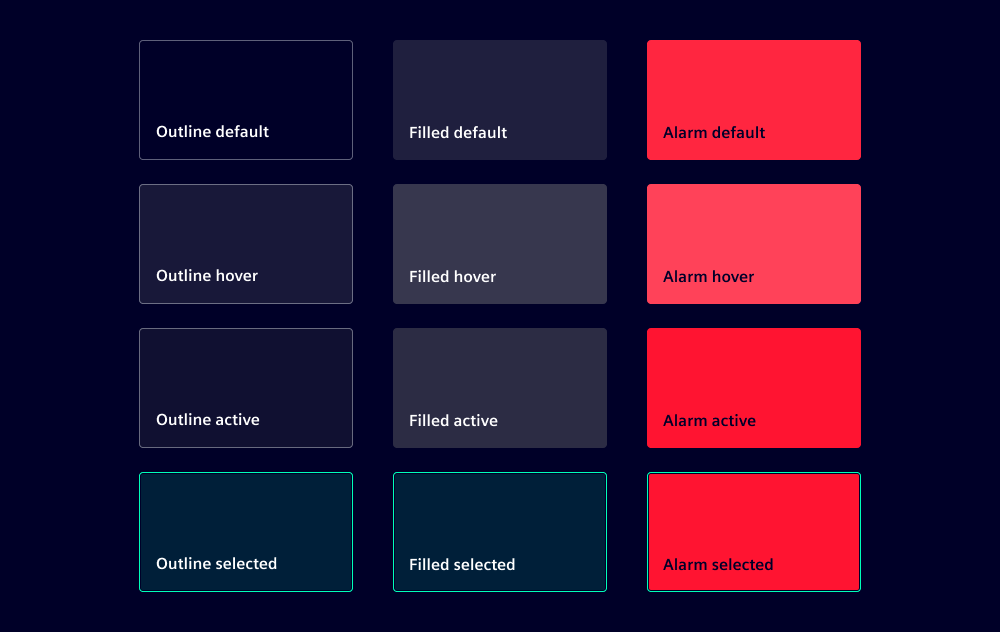
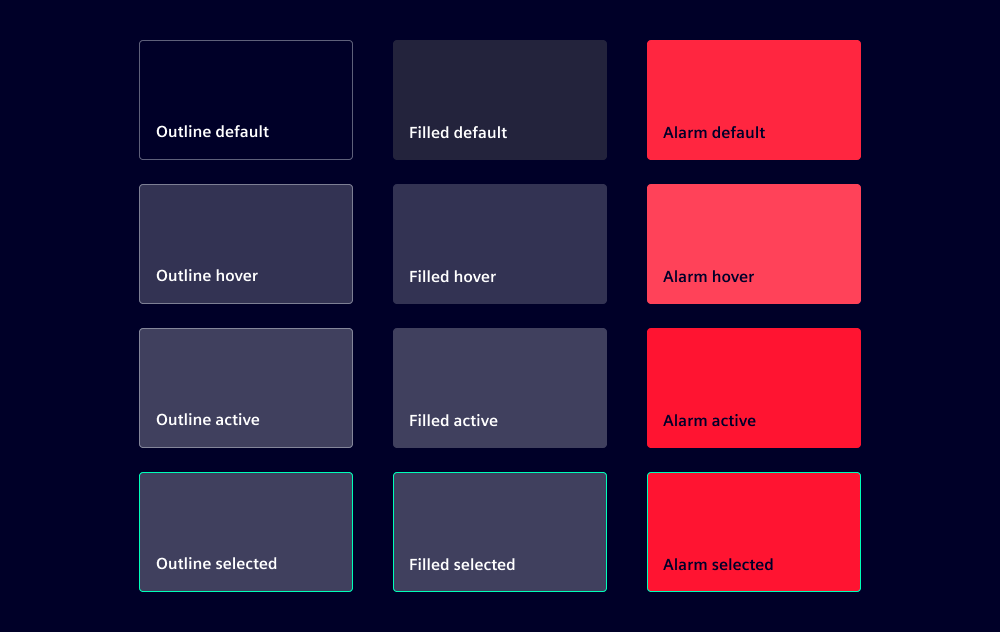
Update card guide and Figma illustrations
Revised the card documentation to clarify card types, update descriptions, and improve structure. Updated and added Figma illustration assets to reflect the new elevation colors and correct types.

Changed region(s): [[0.124, 0.5111, 0.62, 0.962], [0.124, 0.2706, 0.372, 0.481]]

diff --git a/docs/components/card/guide.md b/docs/components/card/guide.md
@@ -5,34 +5,27 @@ doc-type: 'tab-item'
 
 Cards make it easy for users to quickly scan small chunks of information. We typically use cards to create dashboards or modular, flexible designs that adapt seamlessly to various screen sizes. Additionally, cards can be used to draw attention to important content and serve as an entry point to deeper levels of navigation or detailed views.
 
-Cards are interactive elements. The entire container is clickable and triggers a single action.
-
-![Card overview](https://www.figma.com/design/wEptRgAezDU1z80Cn3eZ0o/iX-Documentation-illustrations?node-id=7006-24531&t=fUz6fPoLgAqrvmTT-11)
-
-1. Card
-	1. Card container
-	2. Card content
-2. Action card
-	1. Icon
-	2. Heading
-	3. Subheading
-3. Push card
-	1. Notification
-	2. Icon
-	3. Heading
-	4. Subheading
-	5. Expandable section
-
-## Card types
-
-We currently offer three types of cards:
-1. Cards: Use to display various types of content e.g. images, charts or key data.
+We offer three types of cards:
+1. Cards: Use flexibly to display various types of content e.g. images, charts or key data.
 2. Action cards: Use to trigger key actions, similar to [buttons](../button).
 3. Push cards: Use to display notifications and additional content related to the notification value.
 
-![Card types](https://www.figma.com/design/wEptRgAezDU1z80Cn3eZ0o/iX-Pattern-Illustrations?type=design&node-id=858-4953&mode=design&t=RDimbEsIHFIXIByo-1)
+![Card overview](https://www.figma.com/design/tfahbu7mmoTEDYYFYE2XmB/Update-card?node-id=7006-24531&t=ezJ14BAYO4fXC1jm-4)
 
-![Card examples](https://www.figma.com/design/wEptRgAezDU1z80Cn3eZ0o/iX-Pattern-Illustrations?type=design&node-id=1329-26613&mode=design&t=sOZRNgWt7R52iLSF-1)
+- **Card**
+	1. Card container
+	2. Card content
+- **Action card**
+	1. Icon
+	2. Heading
+	3. Subheading
+- **Push card**
+	1. Icon
+	2. Notification
+	3. Heading
+	4. Subheading
+	5. Expand area
+	6. Expandable content
 
 ## Variants
 
@@ -72,9 +65,11 @@ Each variant emphasizes different aspects to guide the user's attention. These v
 	- Action cards have a fixed size of `8rem` width and `8rem` height.
 	- Push cards have a fixed height of `11rem` and a default width of `16rem`. The width can be adjusted as needed.
 - **Placement:** We typically group cards and position them in the top-left corner of the page or content area. Within the group, cards can be organized into lists or grids using [card lists](../card-list).
+
+![Card examples](https://www.figma.com/design/wEptRgAezDU1z80Cn3eZ0o/iX-Pattern-Illustrations?type=design&node-id=1329-26613&mode=design&t=sOZRNgWt7R52iLSF-1)
 ## States
 
-Cards have three states: Default, hover and active.
+Cards have three states: Default, hover, active and focused.
 
 ![Card states](https://www.figma.com/design/wEptRgAezDU1z80Cn3eZ0o/iX-Pattern-Illustrations?type=design&node-id=858-4979&mode=design&t=RDimbEsIHFIXIByo-1)
 
